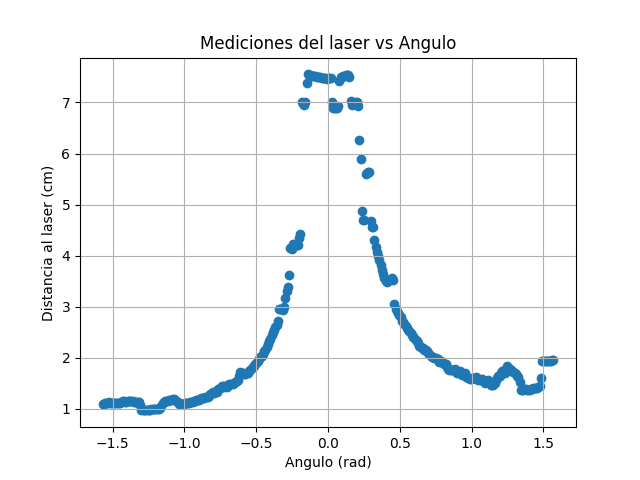
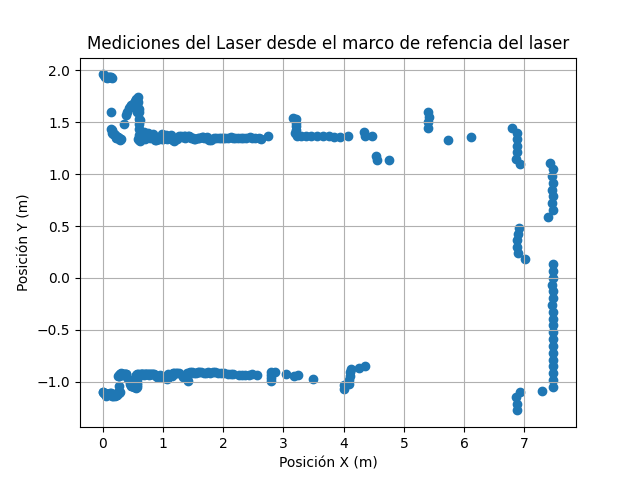
Correciones punto 1, Comentarios punto 1, Movimiento punto 2, comentarios punto 2

diff --git a/src/taller2_4/scripts/Punto2.py b/src/taller2_4/scripts/Punto2.py
@@ -1,0 +1,71 @@
+#!/usr/bin/env python3
+import sys,rospy,os
+import matplotlib.pyplot as plt
+from std_msgs.msg import Float32MultiArray
+
+#Clase para el Talker de las velocidades lineales de las ruedas
+class wheelsVel():    
+    
+    #Función de inicialización
+    #Param: rutaArchivo, la ruta del archivo de texto
+    def __init__(self,rutaArchivo):
+        #Se crea e inicializa el nodo
+        self.pub = rospy.Publisher('/turtlebot_wheelsVel',Float32MultiArray,queue_size=10)
+        rospy.init_node("turtlebot_wheelsVel",anonymous=True)
+        self.rates=rospy.Rate(10)
+        
+        #Se obitienen los datos del archivo de texto
+        self.data=self.getData(rutaArchivo)
+        
+        i=0 #Contador de cuantas lineas hay que leer
+        while (not rospy.is_shutdown()) and i<len(self.data): #Ciclo, si i>len(data), significa que ya termino de leer el archivo
+            t,tv = 0,self.data[i][2]    #Contador de tiempo y tiempo durante el cual se aplica el perfil de velocidad
+            print("Se va a mandar el mensaje: ",self.data[i][0:2]) #Se notifica por consola
+            while t<tv:
+                self.pub.publish(Float32MultiArray(data=self.data[i][0:2])) #Se publica el mensaje
+                t+=1 #Sube uno el contador de tiempo
+                rospy.sleep(1)  #Se duerme durante un segundo
+                self.rates.sleep()  #Se duerme el rate al que se mandan los mensajes
+            i+=1 #Se suma 1 a la linea que se leyo
+            
+        self.pub.publish(Float32MultiArray(data=[0,0])) # Al acabar se manda este mensaje para parar el robot
+    
+    
+    #Función que extrae los datos del archivo
+    #Param: rutaArchivo, la ruta al archivo
+    #Return: data, matriz de n filas y 3 columnas, contiene los perfiles de velocidad y el tieempo de aplicacion de las n lineas
+    def getData(self,rutaArchivo):
+        with open(rutaArchivo,mode='r') as reader: #Se lee el archivo
+            lines = reader.readlines()             #Se obtienen todas las lineas
+            data=[0 for i in range(int(lines[0]))]  #Se inicializa el arreglo para N lineas
+            for i in range(1,len(lines)):
+                data[i-1] = [int(j) for j in lines[i].split()]  #Se sacan y organizan los datos
+        return data     #Retorna la estructura de datos final
+        
+#Función para verificar la ruta de archivo, si no existe enviara exepcion
+#Param: nombreArchivo, el nombre del archivo
+#return: Ruta absoluta del archivo
+#Throws: FileExistError si el archivo no existe
+def verificarRutaArchivo(nombreArchivo):
+    directorioPadre=os.path.dirname(os.path.dirname(os.path.abspath(__file__)))
+    ruta = os.path.join(directorioPadre,'resources/'+nombreArchivo)
+    if(os.path.isfile(ruta)):
+        return ruta
+    else:
+        raise FileExistsError
+            
+if __name__ == "__main__":
+    try:
+        if len(sys.argv)==2:   #La segunda posicion del arreglo es el nombre del archivo
+            ruta=verificarRutaArchivo(sys.argv[1])  #Se encuentra la ruta al archivo
+            publisher = wheelsVel(ruta)     #Se inicializa el nodo Publisher
+        
+        else: 
+            raise FileExistsError #Se genera error si el archivo no existe
+        
+    
+    #Excepts para manejo de los errores
+    except FileExistsError:
+        print("El nombre del archivo no es valido")
+    except rospy.ROSInterruptException:
+        print("Se interrumpio ROS")

diff --git a/src/taller2_4/scripts/Punto1.py b/src/taller2_4/scripts/Punto1.py
@@ -6,13 +6,16 @@ import matplotlib.pyplot as plt
 posRobot=np.array([1,0.5,np.pi/4])  #Respecto al marco inercial
 posLaser=np.array([0.2,0,0])        #Respecto al marco del robot
 
-#Carga los dato
+#Carga los datos
 pathArchivo = os.path.join(os.path.dirname(os.path.dirname(__file__)),'docs/laserscan.dat')
 pathDirectorio = os.path.join(os.path.dirname(os.path.dirname(__file__)),'results')
 laserdata = np.loadtxt(pathArchivo)
 angle_min,angle_max=-np.pi/2,np.pi/2
 theta = np.linspace(angle_min, angle_max, len(laserdata))
 
+#Función para calcular la matriz de rotación del angulo O
+#Param:o, angulo en radianes para calcular la matriz de rotacion
+#return: Matriz de rotacion ya calculada
 def R(o):
     return np.array([
         [np.cos(o),np.sin(o),0],
@@ -20,40 +23,48 @@ def R(o):
         [0,0,1],
     ])
 
+
+#Función para calcular la matriz inversa de rotación del angulo O
+#Param:o, angulo en radianes para calcular la matriz de rotacion
+#Return: Matriz de rotación ya calculada
 def Rinv(o):
     return np.array([
         [np.cos(o),-np.sin(o),0],
         [np.sin(o),np.cos(o),0],
         [0,0,1],
     ])
+    
 
 if __name__ == '__main__':
-    
     R=Rinv(posRobot[2])  #Matriz del marco del robot al marco global
     posLaserGlobal = posRobot+np.matmul(R,posLaser)
     RL= np.zeros(shape=(len(laserdata),3))   #Distancias medidas por el laser
     for i in range(len(laserdata)):
-        x=np.array([np.cos(theta[i])*laserdata[i],np.sin(theta[i])*laserdata[i],theta[i]])
-        RL[i]=(posLaserGlobal + np.matmul(R,x))
+        x=np.array([np.cos(theta[i])*laserdata[i],np.sin(theta[i])*laserdata[i],theta[i]])  #Calculo PosObjeto_Robot
+        RL[i]=(posLaserGlobal + np.matmul(R,x))  #PosObjeto_I =  PosRobot_I + R(o)*PosPobjeto_Robot
+    
+    xL=[laserdata[i]*np.cos(theta[i]) for i in range(len(laserdata))] #Componente en X de la medida del sensor
+    yL=[laserdata[i]*np.sin(theta[i]) for i in range(len(laserdata))] #Componente en Y de la medida del sensor
+    
     
     #Grafica literal A 
     plt.figure(1)
-    plt.scatter(theta,laserdata)
-    plt.xlabel(r'Angulo (rad)')
-    plt.ylabel(r'Distancia al laser (cm)')
-    plt.title(r'Mediciones del laser vs Angulo')
+    plt.scatter(xL,yL)
+    plt.xlabel(r'Posición X (m)')
+    plt.ylabel(r'Posición Y (m)')
+    plt.title(r'Mediciones del Laser desde el marco de refencia del laser')
     plt.grid()
     plt.savefig(os.path.join(pathDirectorio,'grafica1A.png'))
 
 
 
-    #Graficac literal B
+    #Graficac literal Bc
     plt.figure(2)
     plt.xlabel(r'Distancia X (m)')
     plt.ylabel(r'Distancia Y (m)')
-    plt.title(r'Grafica Robot y Laser')
-    plt.scatter(posRobot[0], posRobot[1],color='blue',marker='x')
-    plt.scatter(posLaserGlobal[0],posLaserGlobal[1],color='red', marker='x')
-    plt.scatter(RL[:,0],RL[:,1],color='black')
-    
+    plt.title(r'Mediciones del Laser desde el marco de referencia global')
+    plt.scatter(posRobot[0], posRobot[1],color='blue',marker='x',label="Posición Robot")
+    plt.scatter(posLaserGlobal[0],posLaserGlobal[1],color='red', marker='x',label="Posición Laser")
+    plt.scatter(RL[:,0],RL[:,1],color='black',label="Mediciones")
+    plt.legend()
     plt.savefig(os.path.join(pathDirectorio,'grafica1C.png'))
